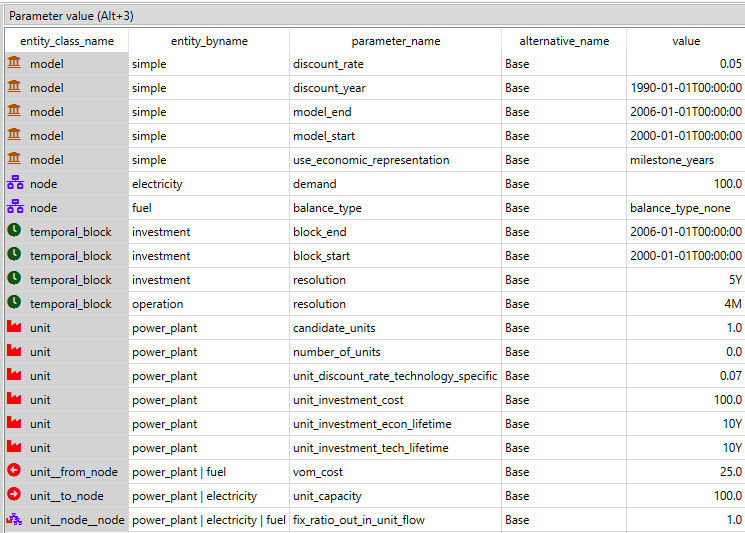
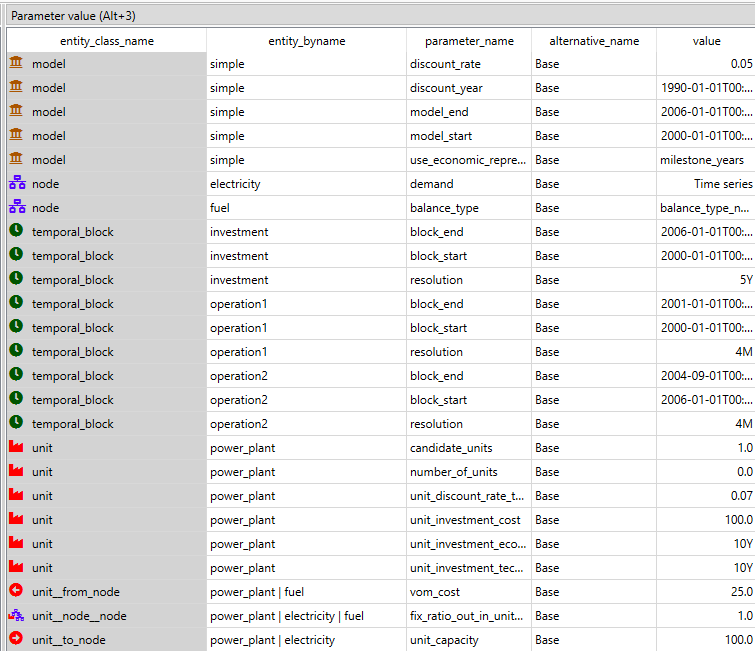
add contents to the Multi-year Investments Using Pre-defined Internal Parameters Tutorial

diff --git a/docs/src/tutorial/multi-year_investment.md b/docs/src/tutorial/multi-year_investment.md
@@ -37,9 +37,11 @@ We start with the case where [use\_economic\_represention](@ref) is not used wit
 ![image](figs_multi-year/use_economic_rep_default.png)
 
 ## Using economic parameters with consecutive operation years
-Now we set [use\_economic\_represention](@ref) to `consecutive_years`. This set-up indicates that the model will use the internally-calculated parameters and continous operational temporal blocks. Now the [unit\_investment\_cost](@ref) and the [vom\_cost](@ref) are discounted to 1990 using a [discount\_rate](@ref) of 0.05.
+Now we set [use\_economic\_represention](@ref) to `consecutive_years`. This set-up indicates that the model will use the internally-calculated parameters and continous operational temporal blocks. Now the [unit\_investment\_cost](@ref) and the [vom\_cost](@ref) are discounted to 1990 using a [discount\_rate](@ref) of 0.05. See the set-up below.
 
-`unit_discounted_duration` is used to discount operation costs so it has the resolution of the operational temporal block. However, since we only discount per year, this parameter value is constant within a year.
+![image](figs_multi-year/use_economic_rep_consecutive.png)
+
+The values for the output parameter `unit_discounted_duration` are shown below. It is used to discount operation costs so it has the resolution of the operational temporal block. However, since we only discount per year, this parameter value is constant within a year.
 
 ![image](figs_multi-year/unit_discounted_duration.png)
 
@@ -55,6 +57,6 @@ Now we set [use\_milestone\_years](@ref) to `milestone_years`. This indicates th
 
 ![image](figs_multi-year/use_economic_rep_milestone.png)
 
-The values for the parameter `unit_discounted_duration` are shown below. Note now in 2000, the value becomes 2.79. This parameter value acts as a weight taking into account the discount per year and the resolution of the milestone years. In order words, now the operation costs for the in-between years have also been included.
+The values for the output parameter `unit_discounted_duration` are shown below. Note now in 2000, the value becomes 2.79. This parameter value acts as a weight taking into account the discount per year and the resolution of the milestone years. In order words, now the operation costs for the in-between years have also been included.
 
 ![image](figs_multi-year/unit_discounted_duration_milestone.png)
